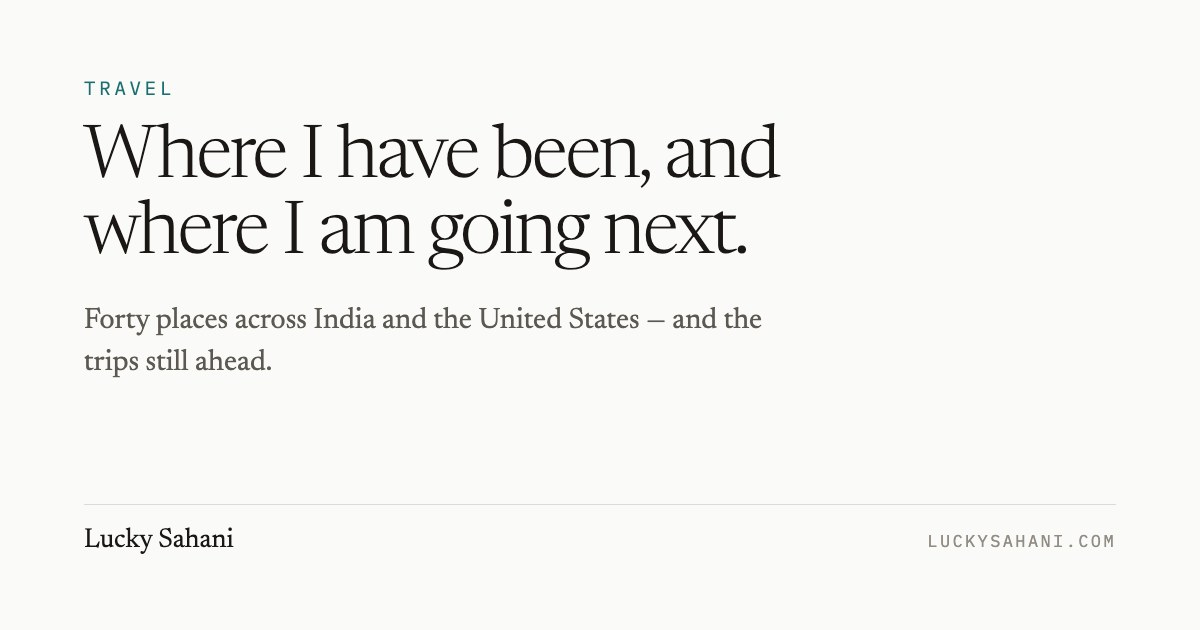
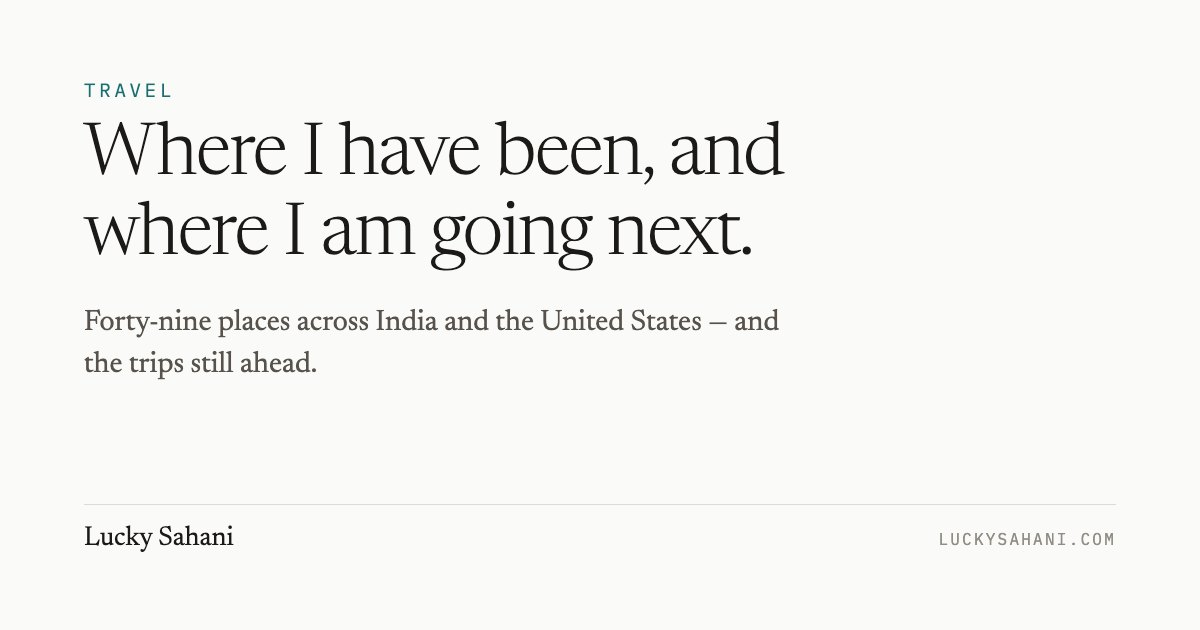
Add what the old-laptop backup turned up: career detail, new trips, IIT Kanpur projects
/career: the 2015 internship and an IIT Kanpur education line, a short
"Before Amazon" section, tech lead on the career-profile platform, the
Saudi Arabia and Egypt launch with its right-to-left UI, Python and
JavaScript/Node.js in the stack, internal talks, the recruiting-data
re-architecture and the connection-pool outage traced to credential
rotation. "EMEA" becomes Europe and Australia — the twelve included
Australia. Internal names, people and counts stay out.

/projects: a new page for the IIT Kanpur projects, linked from /career
only, with its own link-preview card.

/travel: the Dallas & Houston note names both World Cup matches; adds
Maui, Zion & Bryce, the Gorge, Kashmir, Jim Corbett, Kasol, Kuttikanam,
Kodaikanal and Puducherry; Vegas gains Aug 2024, Portland gains Mount
Hood, LA and San Diego get 2025; Munnar, Coorg and Varanasi leave the
wish list; the card now says forty-nine places.

/wedding: the save-the-date opens the gallery, and the roka shows as a
full 3:4 frame so thirteen photos fill five rows.

diff --git a/src/data/career.ts b/src/data/career.ts
@@ -17,7 +17,7 @@ export const thesis = {
   kicker: 'Senior Software Engineer · Gurgaon',
   headline: 'Ten years of platforms with real users on the other end.',
   dek:
-    'Amazon, 2016 to 2026. Bengaluru first — seller tools for the India ' +
+    'Amazon, 2016 to 2026, after an internship there in 2015. Bengaluru first — seller tools for the India ' +
     'marketplace — then Seattle, building internal career-mobility products ' +
     'that ran in fourteen countries. Finished as a Senior SDE.',
 };
@@ -31,7 +31,7 @@ export const metrics: Metric[] = [
   { value: '32 → 2 min', label: 'UI test time', detail: 'A 94% cut, across eight languages.' },
   { value: '~800ms', label: 'latency removed', detail: 'A GST compliance check, by caching instead of seven service calls.' },
   { value: '99%+', label: 'line coverage', detail: 'The notification platform, with 100% branch coverage.' },
-  { value: '12', label: 'countries launched', detail: 'One EMEA expansion, four phased launches, on schedule.' },
+  { value: '12', label: 'countries launched', detail: 'Europe and Australia, in four phased launches, on schedule.' },
   { value: '10 days → 12 hrs', label: 'incident detection', detail: 'Per-template bounce metrics replacing a silent failure.' },
 ];
 
@@ -118,7 +118,7 @@ export const arc: Role[] = [
       'Five microservices serving career-mobility features across fourteen ' +
       'countries and forty-odd locales.',
     work: [
-      'Led a twelve-country EMEA expansion across four phased launches, coordinating dependency teams in several organisations, then wrote the eight-step runbook that cut each later country launch by roughly 60%.',
+      'Led a twelve-country expansion across Europe and Australia in four phased launches, coordinating dependency teams in several organisations, then wrote the eight-step runbook that cut each later country launch by roughly 60%.',
       'Drove requirements for runtime country-level feature flags, turning a multi-day deployment cycle into a rollout or emergency rollback measured in minutes.',
       'Took a core service to full continuous-delivery certification in a week against a three-week estimate — reviewer gates, bake times, auto-rollback monitors, alarm coverage — then made it reusable, cutting the remaining pipeline work by about a third.',
       'Replaced brittle matching with a typed eligibility API across four GraphQL endpoints. Caching dropped downstream TPS by 66% and removed multi-second latency spikes; it also fixed an internationalisation defect where English-only patterns failed against localised job titles in twelve countries.',
@@ -133,7 +133,7 @@ export const arc: Role[] = [
     place: 'Seattle · across several teams',
     blurb: 'Career profile, internal mobility, and a stretch on seller logistics.',
     work: [
-      'Built the career-profile gateway and its data layer from inception, and co-designed the migration off a legacy third-party tool onto a three-tier serverless platform.',
+      'Tech lead for the career-profile platform, owning its end-to-end architecture: built the gateway and data layer from inception, and co-designed the migration off a legacy third-party tool onto a three-tier serverless platform.',
       'Built a configurable matching engine on a graph model so product managers could tune how candidates rank against roles without a code change, with override semantics on role, country and region composite keys.',
       'Delivered time-boxed delegation — TTL-based automatic access revocation over secondary-index query patterns — so managers could hand over talent-review access that expired on its own.',
       'Designed the metrics pipeline behind internal transfer analytics: database streams, event publishing, bulk backfill.',
@@ -153,7 +153,7 @@ export const arc: Role[] = [
       'Built the subscription model and an operations admin panel so non-technical teams could manage reward programmes without code changes.',
       'Delivered the Tax-Collected-at-Source compliance interceptor for India marketplace sellers, inside the government deadline.',
       'Built No-Cost EMI validation and opt-in for the seller promotions platform, later extended to mobile.',
-      'Authored the technical design for expanding a seller reimbursement claims system into new Middle East and North Africa marketplaces, and led QA coordination and production accounting validation for those launches.',
+      'Authored the technical design for expanding a seller reimbursement claims system into new Middle East and North Africa marketplaces — Saudi Arabia and Egypt, with a right-to-left Arabic interface — and led QA coordination and production accounting validation for those launches.',
       'Selected as Code Review Bar Raiser in training — the first junior engineer on the team — completing 225+ reviews.',
     ],
   },
@@ -175,6 +175,14 @@ export const arc: Role[] = [
 export interface Design { title: string; body: string }
 
 export const designs: Design[] = [
+  {
+    title: 'Recruiting-data service re-architecture',
+    body:
+      'A reporting API that pulled entire datasets into the service and filtered them ' +
+      'in code — heap pinned at 100%, and org-wide exports timing out at the gateway. ' +
+      'The proof of concept moved long exports to an asynchronous job that says when ' +
+      'the file is ready, built on federated queries.',
+  },
   {
     title: 'Assessment-failure notification pipeline',
     body:
@@ -239,6 +247,15 @@ export const ops: OpsItem[] = [
       'by feature gate, with thirteen action items and a five-whys behind it.',
   },
   {
+    title: 'An outage that kept a calendar',
+    body:
+      'Database connection-pool timeouts every couple of months, clearing on their own ' +
+      'within hours, with no root cause. Added performance insights, enhanced monitoring ' +
+      'and error-log shipping, right-sized the instances and added reader auto-scaling — ' +
+      'then lined the outages up against the database credential’s 60-day automatic ' +
+      'rotation. The service’s copy of the secret was falling out of sync each time.',
+  },
+  {
     title: 'An alarm audit that found the alarms were not connected',
     body:
       'Across five production services, four of five composite alarms routed to ' +
@@ -271,7 +288,7 @@ export const ops: OpsItem[] = [
 ];
 
 export const stack = [
-  { group: 'Languages', items: ['Java', 'TypeScript', 'Go', 'Kotlin', 'GraphQL', 'SQL'] },
+  { group: 'Languages', items: ['Java', 'Python', 'JavaScript / Node.js', 'TypeScript', 'Go', 'Kotlin', 'GraphQL', 'SQL'] },
   { group: 'AWS', items: ['Lambda', 'DynamoDB', 'DAX', 'AppSync', 'SQS', 'SNS', 'S3', 'CloudWatch', 'EventBridge', 'Step Functions', 'AppConfig', 'API Gateway', 'CloudFront', 'WAF', 'Route 53', 'KMS', 'IAM'] },
   { group: 'Patterns', items: ['Event-driven', 'Single-table DynamoDB', 'Schema-driven GraphQL', 'Serverless-first', 'FIFO + idempotent writes', 'Feature flagging', 'Infrastructure as code'] },
   { group: 'Tools', items: ['AWS CDK', 'Netflix DGS', 'Dagger 2', 'Guava', 'Spring Boot', 'React Native'] },
@@ -281,10 +298,21 @@ export const people: string[] = [
   'Around 300 code reviews a year, with feedback on race conditions, internationalisation regressions, monitoring gaps and security risk rather than formatting.',
   'Ran a promotion assessment across nine stakeholders including three principal engineers, and wrote evidence-based promotion feedback for several teammates.',
   'Interviewed for SDE and campus hiring across multiple quarters — coding, system design and behavioural.',
+  'Gave internal tech talks — the team’s first recorded one, on AWS Lambda; one Lambda behind every AppSync resolver, with gateway authentication and SnapStart; and querying Aurora through Athena federated queries.',
   'Mentored engineers through migrations, DynamoDB schema design and service onboarding without taking the work off them.',
   'Built the team wiki from scratch — services, runbooks, dev setup, architecture, dashboards — replacing tribal knowledge with something a new joiner could read.',
   'Drove AI-assisted development across engineering, product and data teams, including the guardrails that stop it doing damage.',
 ];
+
+export const before = {
+  education: 'IIT Kanpur — B.Tech, Computer Science and Engineering, 2012–2016.',
+  items: [
+    'Summer 2015 at Amazon in Bengaluru, interning on seller registration: a catalogue tool that turned a seller’s raw product data into a validated listing feed, variations and all. Full-time from July 2016.',
+    'Co-founded jutja.com, a project-management site that laid tasks out as mind maps, and built its front end.',
+    'Projects across computer vision, distributed systems, compilers and graphics — licence-plate detection on the campus surveillance feed, skyline queries on MapReduce, a Java-to-MIPS compiler, 3-D Tetris in OpenGL.',
+  ],
+  link: { label: 'Every IIT Kanpur project, in detail', href: '/projects/' },
+};
 
 export const ask = {
   lede: 'What I am looking for',

diff --git a/src/data/travel.ts b/src/data/travel.ts
@@ -67,8 +67,10 @@ export const trips: Trip[] = [
     status: 'past',
     coords: [-96.797, 32.7767],
     note:
-      'Went for the football. Messi and Ronaldo on the same pitch at a World Cup ' +
-      'held in your adopted country is not a fixture you talk yourself out of.',
+      'Went for the World Cup: Argentina–Austria in Arlington on the 22nd, then ' +
+      'Portugal–Uzbekistan in Houston the next day. Messi and Ronaldo on consecutive ' +
+      'days, at a World Cup held in your adopted country, is not a fixture you talk ' +
+      'yourself out of.',
   },
   {
     slug: 'patna',
@@ -141,8 +143,8 @@ export interface Place {
 
 /**
  * The wider record. Places from Dec 2024 onward are corroborated by a
- * Google Timeline export; earlier ones are from memory, so their dates are
- * deliberately vague. City-level only — no addresses, no timestamps.
+ * Google Timeline export or dated by Lucky; earlier ones are from memory, so
+ * their dates are deliberately vague unless he gave a year. City-level only — no addresses, no timestamps.
  */
 export const places: Place[] = [
   // Bases
@@ -152,14 +154,17 @@ export const places: Place[] = [
 
   // United States
   { name: 'Alaska', where: 'Palmer & Delta Junction', when: 'Earlier', coords: [-149.9003, 61.2181], status: 'past' },
+  { name: 'Maui', where: 'Hawaii', when: '2025', coords: [-156.3319, 20.7984], status: 'past' },
+  { name: 'Zion & Bryce Canyon', where: 'Utah', when: 'Aug 2024', coords: [-112.636, 37.38], status: 'past' },
+  { name: 'The Gorge Amphitheatre', where: 'Washington', when: '2023', coords: [-119.9958, 47.1035], status: 'past' },
   { name: 'New York', where: 'New York', when: 'Dec 2024', coords: [-73.9857, 40.7484], status: 'past' },
-  { name: 'Las Vegas', where: 'Nevada', when: 'Jan 2025', coords: [-115.1398, 36.1699], status: 'past' },
-  { name: 'Portland', where: 'Oregon', when: 'Aug 2025', coords: [-122.6784, 45.5152], status: 'past' },
+  { name: 'Las Vegas', where: 'Nevada', when: 'Aug 2024 · Jan 2025', coords: [-115.1398, 36.1699], status: 'past' },
+  { name: 'Portland & Mount Hood', where: 'Oregon', when: 'Aug 2025', coords: [-122.6784, 45.5152], status: 'past' },
   { name: 'Dallas', where: 'Texas', when: 'Jun 2026', coords: [-96.797, 32.7767], status: 'past' },
   { name: 'Houston', where: 'Texas', when: 'Jun 2026', coords: [-95.3698, 29.7604], status: 'past' },
   { name: 'San Francisco', where: 'California', when: 'Earlier', coords: [-122.4194, 37.7749], status: 'past' },
-  { name: 'Los Angeles', where: 'California', when: 'Earlier', coords: [-118.2437, 34.0522], status: 'past' },
-  { name: 'San Diego', where: 'California', when: 'Earlier', coords: [-117.1611, 32.7157], status: 'past' },
+  { name: 'Los Angeles', where: 'California', when: '2025', coords: [-118.2437, 34.0522], status: 'past' },
+  { name: 'San Diego', where: 'California', when: '2025', coords: [-117.1611, 32.7157], status: 'past' },
   { name: 'Denver', where: 'Colorado', when: 'Earlier', coords: [-104.9903, 39.7392], status: 'past' },
   { name: 'Orlando', where: 'Florida', when: 'Earlier', coords: [-81.3792, 28.5383], status: 'past' },
   { name: 'New Orleans', where: 'Louisiana', when: 'Earlier', coords: [-90.0715, 29.9511], status: 'past' },
@@ -170,6 +175,9 @@ export const places: Place[] = [
   { name: 'Jaipur', where: 'Rajasthan', when: 'Sep 2026', coords: [75.7873, 26.9124], status: 'past' },
   { name: 'Jodhpur', where: 'Rajasthan', when: 'Feb 2025', coords: [73.0243, 26.2389], status: 'past' },
   { name: 'Chandigarh', where: 'Punjab', when: 'Mar 2025', coords: [76.7794, 30.7333], status: 'past' },
+  { name: 'Kashmir', where: 'Jammu & Kashmir', when: '2021', coords: [74.7973, 34.0837], status: 'past' },
+  { name: 'Jim Corbett', where: 'Uttarakhand', when: '2024', coords: [78.7747, 29.53], status: 'past' },
+  { name: 'Kasol', where: 'Himachal Pradesh', when: 'Earlier', coords: [77.315, 32.01], status: 'past' },
   { name: 'Triund & Kheerganga', where: 'Himachal Pradesh', when: 'Earlier', coords: [76.3234, 32.2432], status: 'past' },
   { name: 'Bir Billing', where: 'Himachal Pradesh', when: 'Earlier', coords: [76.7218, 32.0415], status: 'past' },
   { name: 'Sikkim', where: 'North East', when: 'Earlier', coords: [88.6065, 27.533], status: 'past' },
@@ -178,9 +186,11 @@ export const places: Place[] = [
   // India — south & west
   { name: 'Alleppey', where: 'Kerala', when: 'Jan 2026', coords: [76.3388, 9.4981], status: 'past' },
   { name: 'Varkala & Paravur', where: 'Kerala', when: 'Jan 2026', coords: [76.7166, 8.7379], status: 'past' },
+  { name: 'Kuttikanam', where: 'Kerala', when: 'Jan 2026', coords: [76.977, 9.586], status: 'past' },
   { name: 'Munnar', where: 'Kerala', when: 'Earlier', coords: [77.0595, 10.0889], status: 'past' },
   { name: 'Wayanad', where: 'Kerala', when: 'Earlier', coords: [76.132, 11.6854], status: 'past' },
   { name: 'Ooty', where: 'Tamil Nadu', when: 'Earlier', coords: [76.695, 11.4064], status: 'past' },
+  { name: 'Kodaikanal', where: 'Tamil Nadu', when: 'Earlier', coords: [77.4892, 10.2381], status: 'past' },
   { name: 'Coorg', where: 'Karnataka', when: 'Earlier', coords: [75.7382, 12.3375], status: 'past' },
   { name: 'Goa', where: 'Goa', when: 'Earlier', coords: [73.8278, 15.2993], status: 'past' },
 
@@ -189,6 +199,7 @@ export const places: Place[] = [
   { name: 'Kanpur', where: 'Uttar Pradesh', when: '2012–2016', coords: [80.3319, 26.4499], status: 'past' },
   { name: 'Indore', where: 'Madhya Pradesh', when: 'Earlier', coords: [75.8577, 22.7196], status: 'past' },
   { name: 'Chennai', where: 'Tamil Nadu', when: 'Earlier', coords: [80.2707, 13.0827], status: 'past' },
+  { name: 'Puducherry', where: 'Puducherry', when: 'Earlier', coords: [79.8083, 11.9416], status: 'past' },
   { name: 'Yercaud', where: 'Tamil Nadu', when: 'Earlier', coords: [78.2097, 11.775], status: 'past' },
 
   // Ahead
@@ -207,8 +218,6 @@ export const wishlist: WishGroup[] = [
     title: 'Hills',
     items: [
       { place: 'Darjeeling & Gangtok', season: 'Mar–May, Oct–Nov', note: 'Toy train, Tsomgo Lake' },
-      { place: 'Munnar', season: 'Sep–Mar', note: 'Tea estates, mist' },
-      { place: 'Coorg', season: 'Oct–Mar', note: 'Coffee estates' },
       { place: 'Tawang', season: 'Apr–Oct', note: 'Offbeat, monasteries' },
       { place: 'Uttarakhand circuit', season: 'Oct–Jun', note: 'Haridwar to Mussoorie, by road' },
     ],
@@ -227,7 +236,6 @@ export const wishlist: WishGroup[] = [
     items: [
       { place: 'Udaipur', season: 'Oct–Mar', note: 'City of lakes' },
       { place: 'Jaisalmer', season: 'Oct–Mar', note: 'Forts, desert camp' },
-      { place: 'Varanasi', season: 'Oct–Mar', note: 'The Ganga aarti' },
       { place: 'Hampi', season: 'Oct–Feb', note: 'Ruins among boulders' },
       { place: 'Khajuraho & Orchha', season: 'Oct–Mar', note: 'Temples, riverside' },
     ],

diff --git a/src/data/projects.ts b/src/data/projects.ts
@@ -1,0 +1,140 @@
+/**
+ * Content for /projects — IIT Kanpur, 2012–2016.
+ *
+ * Written from the project list on the old 2014-era site and Lucky's own
+ * LinkedIn draft. Links go only to repositories on his own GitHub account.
+ * The old site's contact block (phone, college email) is deliberately not
+ * carried over, and teammates are not named.
+ */
+
+export const intro = {
+  kicker: 'Projects',
+  headline: 'Before Amazon: four years at IIT Kanpur.',
+  dek:
+    'B.Tech in Computer Science and Engineering, 2012 to 2016 — course and ' +
+    'research projects, a summer on the campus surveillance cameras, a startup ' +
+    'I co-founded, and the internship that led to ten years at Amazon.',
+};
+
+export interface Project {
+  when: string;
+  area: string;
+  title: string;
+  body: string;
+  repos?: string[];
+}
+
+export const projects: Project[] = [
+  {
+    when: 'Jan–Apr 2016',
+    area: 'Machine learning',
+    title: 'Object detection and classification in surveillance video',
+    body:
+      'Separated moving objects from the background by frame differencing, cut them ' +
+      'out of each video, and trained multiclass classifiers on HOG features — SVM, ' +
+      'decision trees, random forests, AdaBoost and k-NN — to tell autos, rickshaws, ' +
+      'cars, bicycles, motorcycles, pedestrians and number plates apart.',
+    repos: ['MLT-Video-Classifier-Project'],
+  },
+  {
+    when: 'Mar–Apr 2016',
+    area: 'Systems',
+    title: 'A Docker deployer',
+    body:
+      'Deploys any server code from a configuration — MongoDB as a single node, a ' +
+      'replica set or shards — behind a load balancer whose servers can be added or ' +
+      'terminated at runtime from the UI.',
+  },
+  {
+    when: 'Aug–Nov 2015',
+    area: 'Distributed systems',
+    title: 'Skyline queries on MapReduce',
+    body:
+      'Adapted the BNL, SFS and bitmap skyline algorithms to MapReduce and ' +
+      'benchmarked them on a Hadoop cluster with three physical worker nodes, ' +
+      'partitioning by angle rather than by grid so every mapper gets some skyline points.',
+  },
+  {
+    when: 'May–Jul 2015',
+    area: 'Internship · Amazon, Bengaluru',
+    title: 'A catalogue builder for sellers',
+    body:
+      'On the seller registration team: a tool that turned a seller’s raw product ' +
+      'data into a listing feed, variations and all, with validation and errors shown ' +
+      'in the UI, corrections and regeneration, and guidance for every attribute.',
+  },
+  {
+    when: 'Aug–Nov 2014',
+    area: 'Graphics',
+    title: '3-D Tetris',
+    body:
+      'Tetris with a third dimension, in C++ with OpenGL and OpenAL — texture-mapped ' +
+      'blocks, ambient lighting and particle effects, sound, and a heads-up display ' +
+      'with the score and the next block.',
+    repos: ['Tetris3D-OpenGL-Game'],
+  },
+  {
+    when: 'May–Nov 2014',
+    area: 'Computer vision · summer research',
+    title: 'Number plates on the campus cameras',
+    body:
+      'Found the number plates on moving vehicles in the institute’s surveillance ' +
+      'feed. A real-time adaptive Gaussian-mixture background model, with shadow ' +
+      'detection, threw away empty frames; Viola–Jones classified the vehicles; ' +
+      'morphological operations isolated plate regions as the first step towards ' +
+      'OCR — tuned to hold up through changes in light and weather.',
+    repos: ['Image_processing'],
+  },
+  {
+    when: 'May–Jul 2014',
+    area: 'Startup · co-founder',
+    title: 'jutja.com',
+    body:
+      'Co-founded a project-management site that laid tasks out as mind maps, and ' +
+      'built its front end — a single-page interface, with the mind-map visualisation ' +
+      'in JavaScript on VivaGraph.',
+  },
+  {
+    when: 'Jan–Apr 2014',
+    area: 'Compilers',
+    title: 'A Java-to-MIPS compiler',
+    body:
+      'A cross-compiler written in Python by a team of three: a lexer, a parser that ' +
+      'emits parse trees for Graphviz, three-address code generated from semantic ' +
+      'rules on the grammar, and a MIPS back end with register allocation and ' +
+      'runtime library support.',
+    repos: ['Compiler-Assignment-1', 'Compiler-Assignment-2', 'Compiler-Assignment-3-and-4'],
+  },
+  {
+    when: 'May–Jul 2013',
+    area: 'Machine learning · Programming Club',
+    title: 'A content-based email classifier',
+    body:
+      'Sorted the public Enron corpus into categories with a bag-of-words model — ' +
+      'multiclass SVM, naive Bayes and random forests, with POS tagging and stemming — ' +
+      'in Python with NLTK, scikit-learn and Weka, plus a Gmail prototype in Apps ' +
+      'Script. Up to 80% accuracy on balanced sets, as low as 45% on noisier ones.',
+  },
+  {
+    when: 'Jan–Mar 2013',
+    area: 'Algorithms',
+    title: 'Planar graph visualisation',
+    body:
+      'Graph-drawing heuristics for planar graphs, and ways of minimising edge ' +
+      'crossings for different kinds of data.',
+  },
+  {
+    when: 'Jul–Oct 2012',
+    area: 'First-semester project',
+    title: 'Hexxagon',
+    body:
+      'The hexagonal board game in Python and pygame, for two players or against an ' +
+      'AI with easy and hard levels.',
+    repos: ['Hexxagon'],
+  },
+];
+
+export const coursework =
+  'Operating systems on Nachos, graph algorithms — max-flow, bipartite matching, ' +
+  'minimum spanning trees — databases, software architecture and machine-learning ' +
+  'assignments are on GitHub too.';
